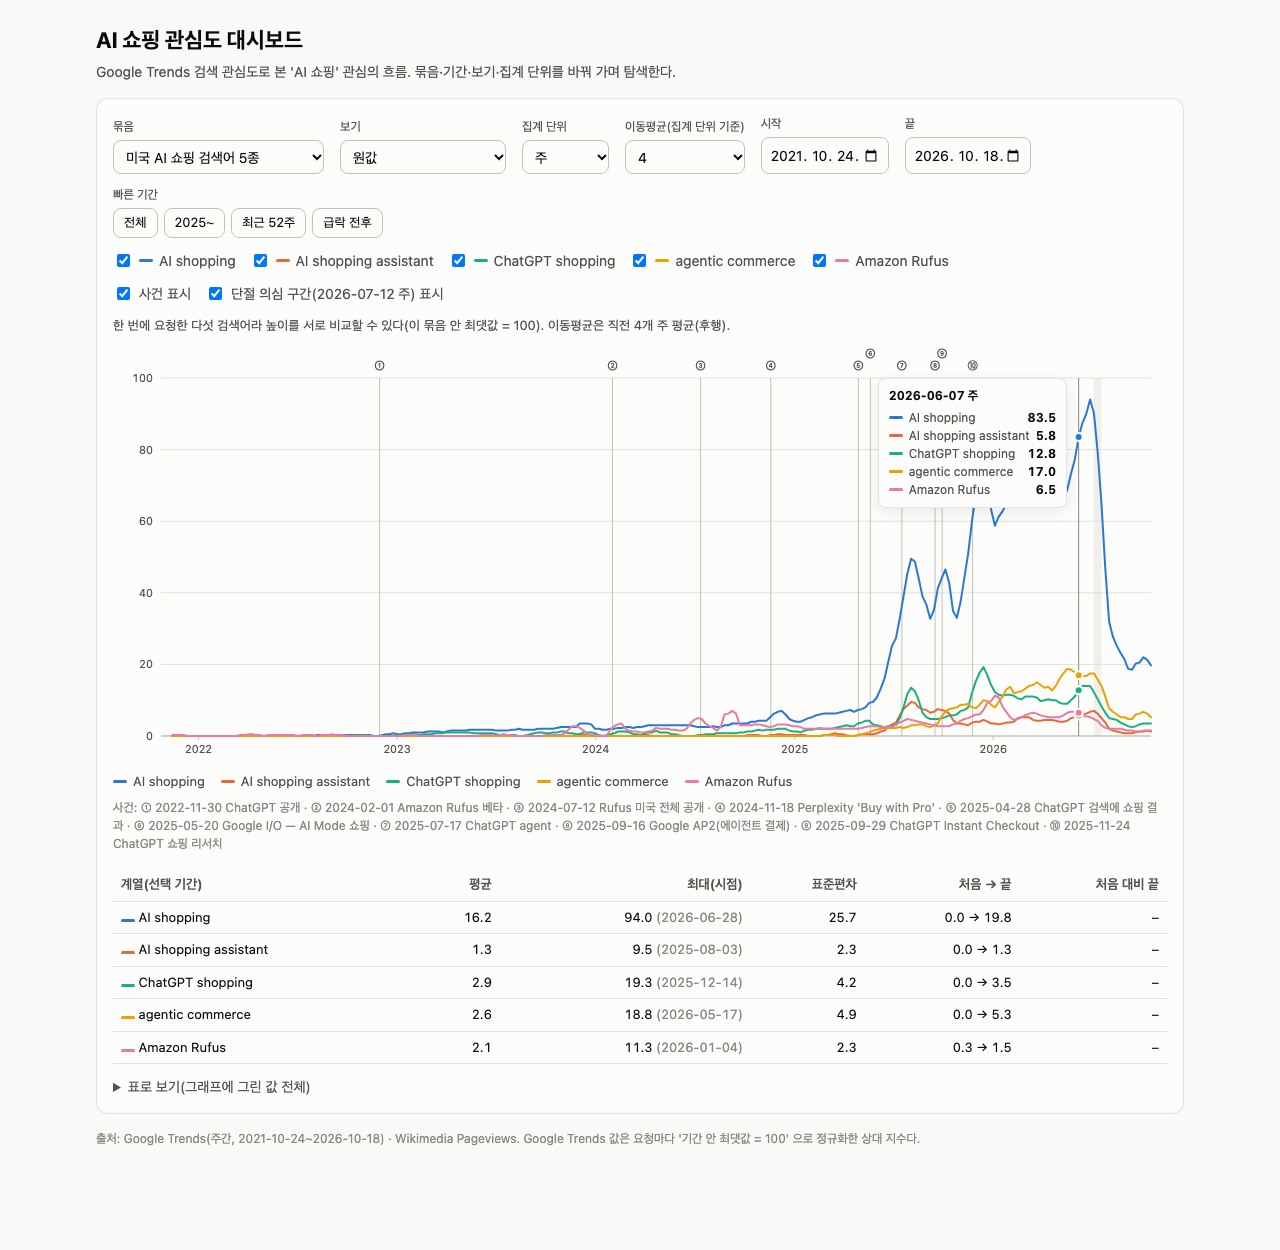
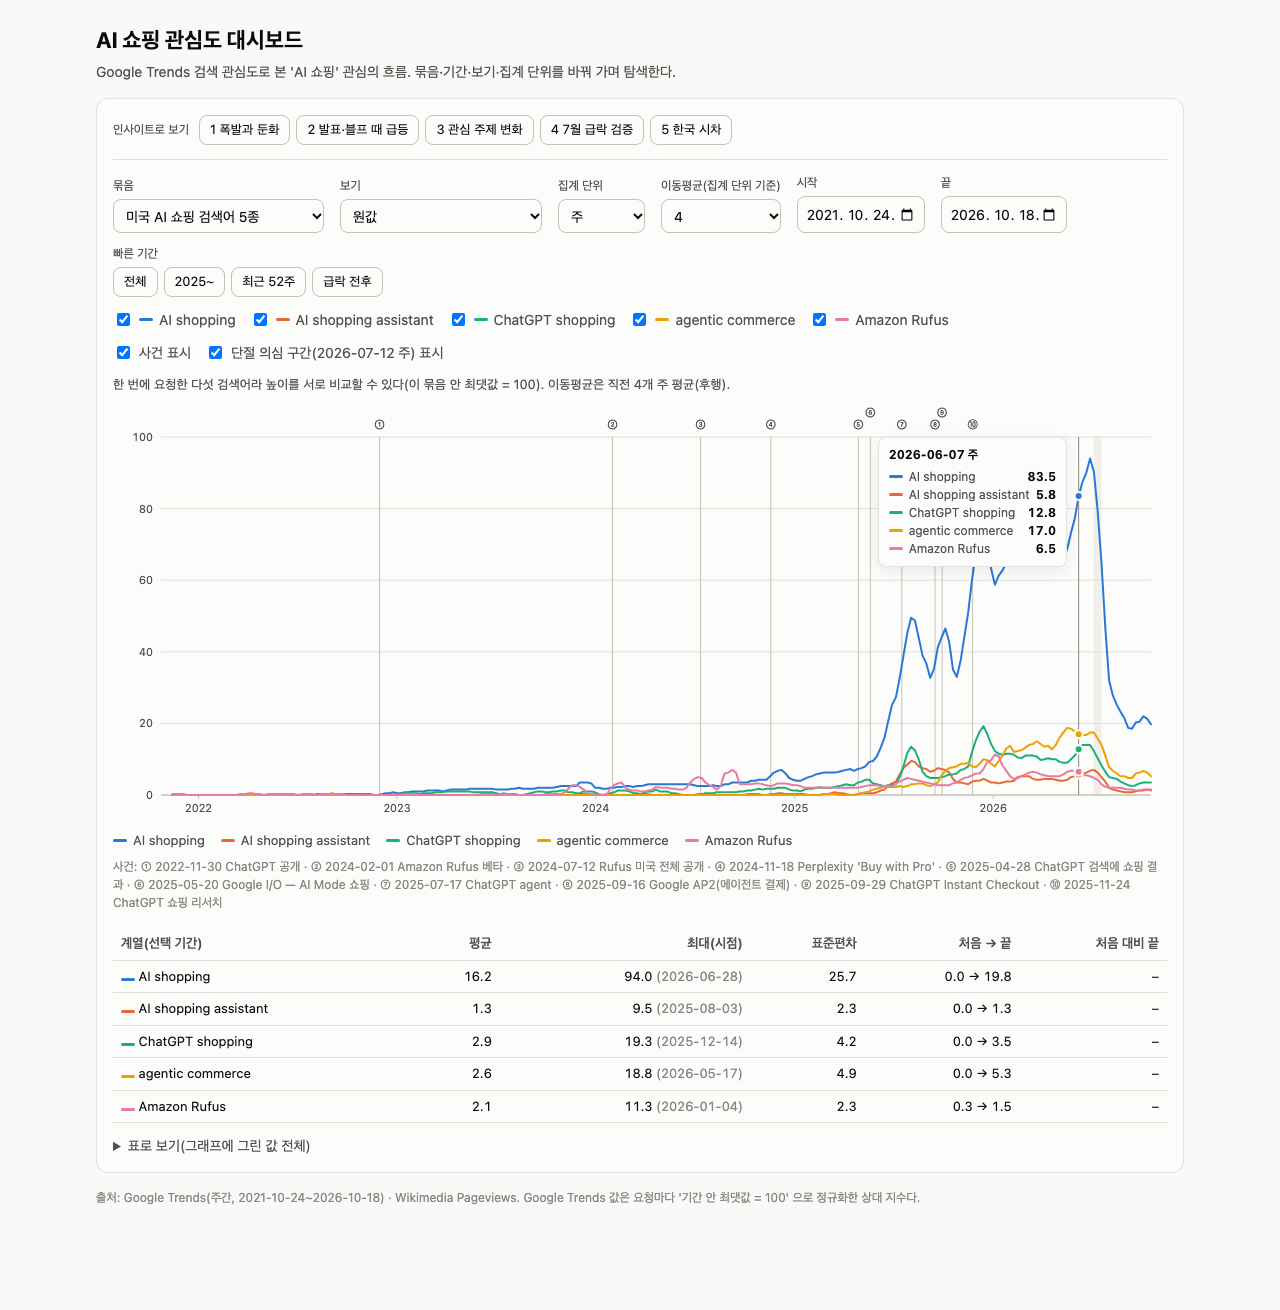
AI_final/mission1: 인사이트 설명 화면 캡처 5장 + REPORT 7절 인사이트↔그림↔대시보드 대응표·각 인사이트 아래 캡처, 시나리오 캡처 7장 새 화면으로 갱신, README·평가 지침·실행 로그·과제 요약 반영

diff --git a/AI_final/mission1/REPORT.md b/AI_final/mission1/REPORT.md
@@ -250,6 +250,16 @@
 
 ## 7. 인사이트
 
+> 인사이트마다 **정적 그림**(`images/`)과 **대시보드 화면**이 있다. 대시보드 위쪽의 '인사이트로 보기' 버튼(또는 주소 `?insight=번호`)을 누르면 그 인사이트가 드러나는 화면으로 바뀌고, 쉬운 설명·근거 수치·강조 구간이 함께 뜬다. 그 화면 캡처를 각 인사이트 끝에 넣었다.
+
+| 인사이트 | 한 줄 요약 | 정적 그림 | 대시보드 화면(설명 포함) | 화면 설정 |
+|---|---|---|---|---|
+| 1 | 2025년에 폭발, 2026년엔 둔화 | 그림 1 · 2 | [insight_1](dashboard/screenshots/insight_1.png) | 'AI shopping' · 분기 평균 · 2023~ |
+| 2 | 기능 발표·블랙프라이데이 때 튄다 | 그림 3 | [insight_2](dashboard/screenshots/insight_2.png) | 'AI shopping' · 주 · 2025-03~12 · 사건 표시 |
+| 3 | 관심 주제가 '쇼핑 도우미'에서 '대신 사 주는 AI'로 | 그림 4 | [insight_3](dashboard/screenshots/insight_3.png) | ChatGPT shopping · agentic commerce · Rufus · 월 평균 · 2024~ |
+| 4 | 7월 급락은 측정 변화일 가능성이 크다 | 그림 5 · 6 | [insight_4](dashboard/screenshots/insight_4.png) | Google vs 위키백과 · 지수 · 이동평균 4 · 2026-03~ |
+| 5 | 한국은 미국보다 약 20주 늦게 | 그림 7 | [insight_5](dashboard/screenshots/insight_5.png) | 미국 vs 한국 · 이동평균 4 · 2024-07~ |
+
 ### 인사이트 1. 관심은 2025년에 폭발했고, 2026년 상반기에 둔화됐다
 
 - **관찰(Fact)**
@@ -265,6 +275,9 @@
 - **행동(Action)**
   - 성장 단계는 수준보다 **증가 속도(로그 기울기)**로 판단한다. 수준이 높아도 속도가 크게 떨어지면 확산기가 끝나 가는 신호다.
   - 포화인지 이동인지 가리려면 서비스 이름 검색어와 앱 사용 지표를 같은 기간으로 맞춰 다시 본다.
+- **보이는 곳**: 그림 1 · 2 · 대시보드 '인사이트로 보기 1'(설명 상자 포함 캡처)
+
+![인사이트 1 — 대시보드 화면](dashboard/screenshots/insight_1.png)
 
 ### 인사이트 2. 급등은 '범용 AI의 쇼핑 기능 발표 직후'와 '블랙프라이데이'에 온다
 
@@ -284,6 +297,9 @@
   - 사건 효과는 다른 사건·시즌과 겹치지 않는 창에서만 해석한다.
   - 블랙프라이데이 효과(×1.2~1.5)를 먼저 빼고 사건 효과를 보는 후속 분석을 한다.
   - 서비스 출시를 알리려면 쇼핑 시즌 직전이나 대형 AI 발표 직후의 관심 상승을 노리는 것이 유리하다는 가설을 세울 수 있다.
+- **보이는 곳**: 그림 3 · 대시보드 '인사이트로 보기 2'(설명 상자 포함 캡처)
+
+![인사이트 2 — 대시보드 화면](dashboard/screenshots/insight_2.png)
 
 ### 인사이트 3. 관심의 중심이 '쇼핑 도우미'에서 'AI가 대신 사 주는 것(agentic)'으로 옮겨 가는 중
 
@@ -297,6 +313,9 @@
 - **행동(Action)**
   - 비중(상대값)과 절대값을 항상 함께 본다.
   - 소비자 관심과 업계 관심을 나눠 보려면 소비자 쪽 검색어(예: "AI buy for me")를 추가로 수집해 비교한다.
+- **보이는 곳**: 그림 4 · 대시보드 '인사이트로 보기 3'(설명 상자 포함 캡처)
+
+![인사이트 3 — 대시보드 화면](dashboard/screenshots/insight_3.png)
 
 ### 인사이트 4. 2026년 7월 급락(−74%)은 '관심 감소'보다 '측정 변화'일 가능성이 크다
 
@@ -325,6 +344,9 @@
   - 원인을 확인하려면 다른 측정(네이버 데이터랩, Bing, 앱 사용 지표)으로 교차 검증한다.
   - Google Trends를 장기 비교에 쓸 때는 **대조 검색어를 함께 받아 두는 것**을 기본 절차로 한다. 이번 판단이 가능했던 것도 대조군 덕분이다.
   - 2025~26년 상승분 일부에도 같은 성분이 섞여 있었을 수 있다. 인사이트 1의 성장 폭은 상한값으로 읽는다.
+- **보이는 곳**: 그림 5 · 6 · 대시보드 '인사이트로 보기 4'(설명 상자 포함 캡처)
+
+![인사이트 4 — 대시보드 화면](dashboard/screenshots/insight_4.png)
 
 ### 인사이트 5. 한국은 미국을 약 20주 늦게 따라왔고, 국내 플랫폼 출시에 반응했다
 
@@ -340,6 +362,9 @@
 - **행동(Action)**
   - 같은 분석을 네이버 데이터랩(검색어 트렌드·쇼핑인사이트)으로 반복해 대표성을 확보한다.
   - '미국 흐름 = 한국의 선행 지표'라는 가설은 다른 기능(대리 결제 등)에서도 시차가 반복되는지 확인한 뒤에 쓴다.
+- **보이는 곳**: 그림 7 · 대시보드 '인사이트로 보기 5'(설명 상자 포함 캡처)
+
+![인사이트 5 — 대시보드 화면](dashboard/screenshots/insight_5.png)
 
 ## 8. 보너스 과제
 
@@ -399,6 +424,7 @@
   - 묶음 5종, 보기 4종(원값 · 지수 · 직전 대비 · 전년 대비), 집계 3종(주 · 월 · 분기), 이동평균, 기간(날짜·빠른 기간)
   - 계열 켜기/끄기, 사건·단절 구간 표시, 마우스·방향키 툴팁, 선택 기간 요약 표, 전체 값 표
   - 화면 상태가 주소에 저장돼 같은 화면을 다시 열 수 있다.
+  - **인사이트로 보기 5종**: 버튼(주소 `?insight=1~5`)을 누르면 인사이트가 드러나는 화면으로 바뀌고 설명 상자·강조 구간이 뜬다. 캡처는 7절 각 인사이트 아래에 있다.
 
 | # | 시나리오(조작) | 화면 | 확인되는 것 |
 |---|---|---|---|

diff --git a/AI_final/mission1/평가 지침.md b/AI_final/mission1/평가 지침.md
@@ -50,6 +50,7 @@ open dashboard/index.html     # Windows: start · Linux: xdg-open — 서버 · 
 
 | 순서 | 조작 | 기대 |
 | --- | --- | --- |
+| 0 | 위쪽 '인사이트로 보기' 1~5 를 차례로 누름 | 리포트 인사이트 5개가 각각 드러나는 화면 + 쉬운 설명 · 근거 수치 상자 + 강조 구간(직접 조작하면 상자가 사라지고 일반 탐색으로 돌아감) |
 | 1 | 그대로 연다 | 미국 5종 · 4주 이동평균 · 전체 기간 · 사건 번호 ①~⑩ · 2026-07 단절 음영 |
 | 2 | 그래프 위에 마우스(또는 그래프 클릭 후 ← →) | 해당 주의 검색어별 값 툴팁 |
 | 3 | 보기 = 직전 대비 변화율, 빠른 기간 = 2025~, 'AI shopping' 만 켬 | 2025-07-13 주 +63% 등 급등 주가 사건 직후에 몰림 |
@@ -60,7 +61,7 @@ open dashboard/index.html     # Windows: start · Linux: xdg-open — 서버 · 
 | 8 | 아래 "표로 보기" 펼침 · 브라우저 폭을 390px 로 줄임 | 그래프에 그린 값 전체 표 · 필터 줄바꿈과 그래프 폭 맞춤 |
 
 - 화면 상태가 주소 `?` 뒤에 저장됨 — 새로고침해도 유지, 주소를 공유하면 같은 화면
-- 증빙: `dashboard/screenshots/` 7장 + 시나리오 설명(`REPORT.md` 8-3)
+- 증빙: `dashboard/screenshots/` 12장(시나리오 7 + 인사이트 설명 화면 5) + 시나리오 설명(`REPORT.md` 8-3) · 인사이트별 화면은 `REPORT.md` 7절
 
 ## 5. 시계열 심화 (보너스)
 

diff --git a/AI_final/mission1/실행 로그.md b/AI_final/mission1/실행 로그.md
@@ -141,7 +141,9 @@ $ "Google Chrome" --headless=new --user-data-dir=<임시 폴더> --window-size=1
 
 - 데이터를 HTML 안에 넣은 파일 하나 — 서버 · 인터넷 · 외부 라이브러리 없음(`<script src=` 0개)
 - 화면 상태가 주소에 저장되므로 같은 주소로 캡처를 반복할 수 있음 · `at=날짜` 로 툴팁 고정
-- 캡처 7장: 기본 · 급등(직전 대비) · 미국 vs 한국 · 급락 검증(지수) · 분기 전년 대비 · 위키백과 · 모바일(390px) — 시나리오 설명은 `REPORT.md` 8-3
+- 캡처 12장
+  - 시나리오 7장: 기본 · 급등(직전 대비) · 미국 vs 한국 · 급락 검증(지수) · 분기 전년 대비 · 위키백과 · 모바일(390px) — 설명은 `REPORT.md` 8-3
+  - 인사이트 5장: `index.html?insight=1~5` 를 1280×1420 창으로 캡처 — 설명 상자 · 근거 수치 · 강조 구간이 그래프와 한 장에 담김(`REPORT.md` 7절)
 
 ---
 

diff --git a/AI_final/mission1/과제 요약.md b/AI_final/mission1/과제 요약.md
@@ -99,7 +99,7 @@
 
 # 7. 보너스 과제 (선택)
 
-- 분석 결과 서비스화(대시보드/웹): 기간/조건을 바꿔 보며 탐색 — 제출은 배포 URL / 로컬 실행 녹화 + 실행 방법 / 스크린샷 세트 + 시나리오 중 택1 — **HTML 대시보드 + 스크린샷 7장 + 시나리오(택1 중 3번)**
+- 분석 결과 서비스화(대시보드/웹): 기간/조건을 바꿔 보며 탐색 — 제출은 배포 URL / 로컬 실행 녹화 + 실행 방법 / 스크린샷 세트 + 시나리오 중 택1 — **HTML 대시보드 + 스크린샷 12장(인사이트 설명 화면 5장 포함) + 시나리오(택1 중 3번)**
 - 시계열 심화: (A) 분해 (B) 간단 예측 중 1개 이상 + 시각화 — **(A) STL 분해 · (B) 베이스라인 예측 둘 다**
 
 # 8. 결과 예시 (참고용 — 정답 아님)
